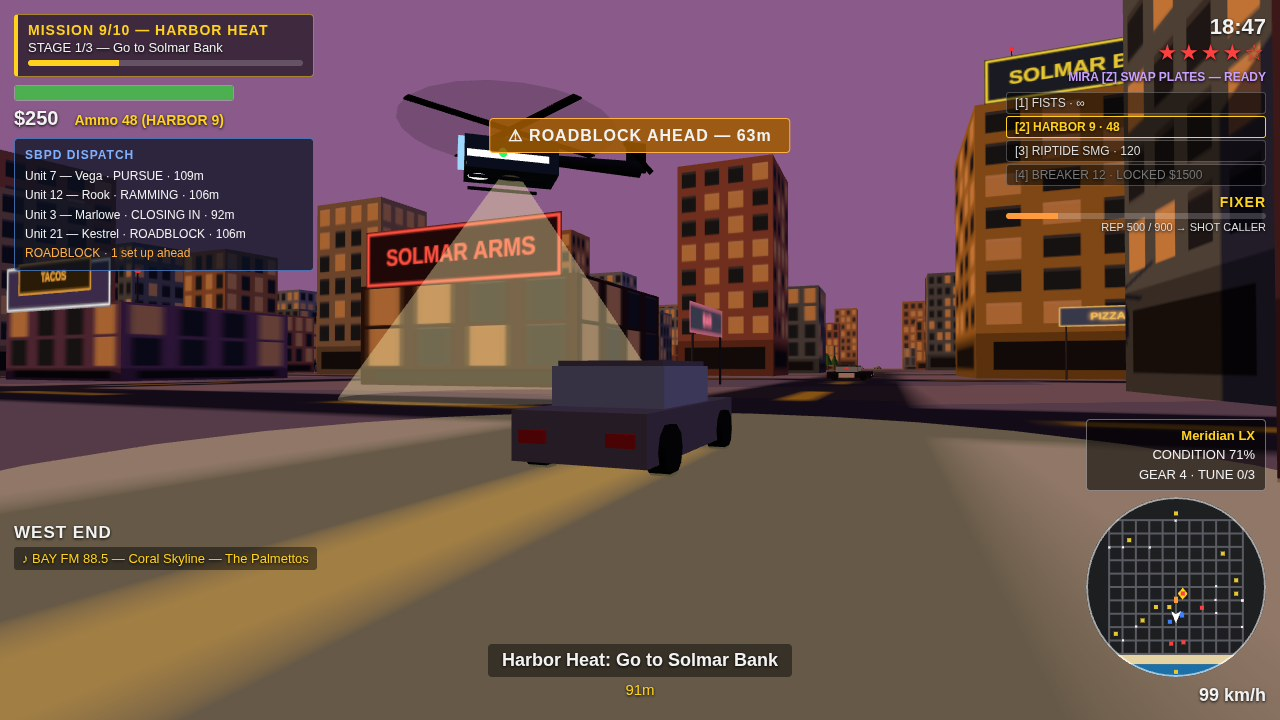
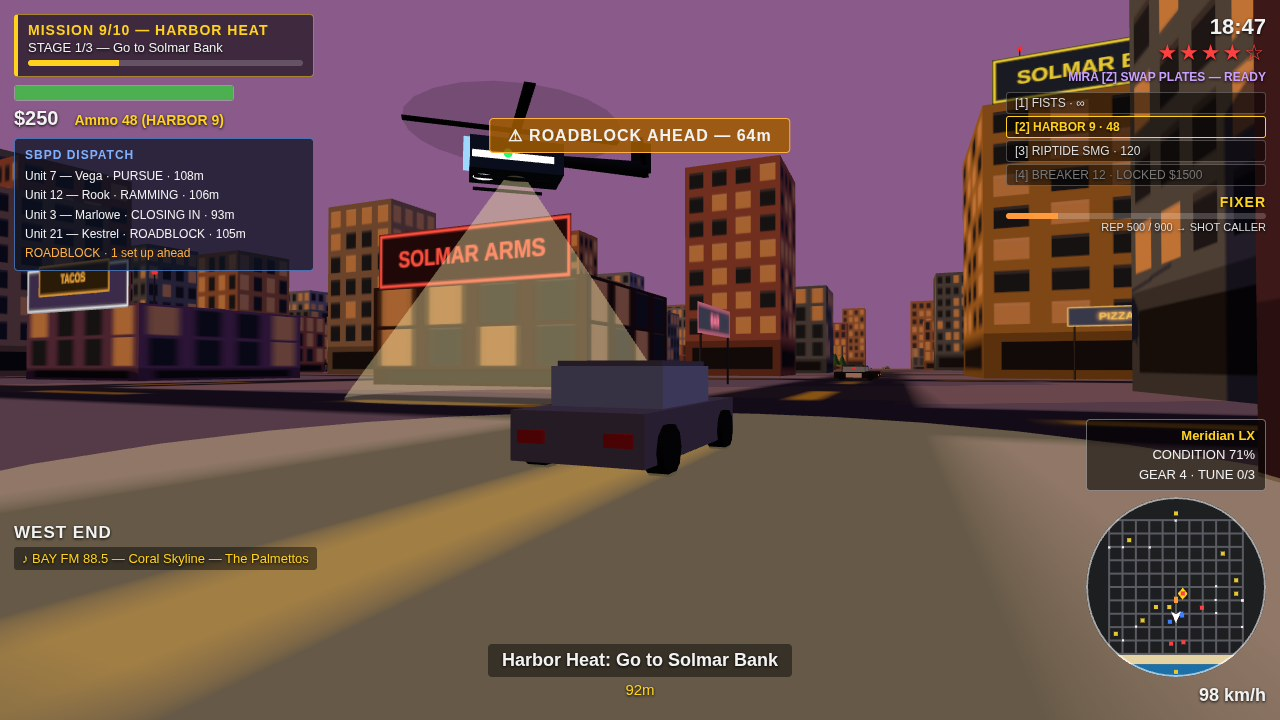
Solmar Bay v7 (sprint 9): 4 screenshots regenerated under recording v9 + screenshots README

Changed region(s): [[0.0, 0.0, 1.0, 0.5806], [0.9688, 0.55, 1.0, 0.6722], [0.4375, 0.2139, 0.4688, 0.2444]]

diff --git a/screenshots/README.md b/screenshots/README.md
@@ -1,0 +1,82 @@
+# Solmar Bay — Screenshots
+
+Four staged gameplay screenshots for the make.fun entry, 1280×720 JPEG
+(quality 88). Captured headless via the CDP driver
+(`/tmp/cdp-shot.mjs`, Chrome remote debugging on 127.0.0.1:9333) from
+`game/index.html?shot=N&seed=1`. Staging lives in
+`game/src/autopilot.js` (`stageShot()`) and `game/src/staging-fx.js`;
+the seed is fixed, so re-running the driver reproduces the same staging.
+
+Regenerate one shot:
+
+```
+node /tmp/cdp-shot.mjs shot <N> screenshots/<file>.jpg 800
+```
+
+Last regenerated: 22 Nov 2026 (sprint 9, recording v9). All four staged
+cleanly with zero page errors (`window.__errors` empty in the CDP diag).
+
+## 1-chase.jpg — heli chase + roadblock
+
+- Mission 9/10 **"Harbor Heat"**, stage 1/3 — "Go to Solmar Bank".
+- Staging: player in car at (0, 120), heading π, speed 24; heat 185
+  (5 wanted stars); SMG owned, 120 ammo; rep 500. Roadblock
+  pre-spawned ahead of the car. Camera: `camYaw 0.55, camDist 10,
+  camPitch 0.15`; heli held at `holdAngle = camYaw + π + 0.15`,
+  height 12.
+- What is visible: police helicopter overhead with a searchlight cone
+  shining down on the player's grey car; amber banner
+  "⚠ ROADBLOCK AHEAD — 64m"; SBPD DISPATCH panel listing four units
+  (Vega PURSUE, Rook RAMMING, Marlowe CLOSING IN, Kestrel ROADBLOCK)
+  plus "ROADBLOCK · 1 set up ahead"; red "SOLMAR ARMS" neon sign;
+  downtown buildings; minimap with the roadblock marker; speedometer
+  98 km/h; radio "BAY FM 88.5 — Coral Skyline — The Palmettos".
+
+## 2-driving.jpg — beach-road driving, ferris wheel + pier
+
+- Mission 6/10 **"Neon Street Race"**, stage 1/3 — "Checkpoint 1/3:
+  the pier".
+- Staging: player in car at (-130, 300), heading π/2, speed 10; rep
+  180. Eight pedestrians placed along the sidewalk and six traffic
+  cars placed ahead on the beach road. Camera: `camYaw -π/2,
+  camDist 8`.
+- What is visible: large ferris wheel with colourful cabins dominating
+  the centre-left skyline; the pier boardwalk and ocean on the right;
+  a tall pale tower on the horizon; pedestrians on the sidewalk;
+  traffic cars ahead in both lanes; the player's blue "Dune Runner"
+  at 48 km/h; "BOARDWALK BEACH" district label; mission timer
+  "90s LEFT".
+
+## 3-onfoot.jpg — on-foot shootout, orange tracer beam
+
+- Mission 8/10 **"Vulture War"**, stage 1/4 — "Go to Solmar Mall".
+- Staging: player on foot at (0, -20), facing π; heat 55 (1 wanted
+  star); RIPTIDE SMG selected, 120 ammo; rep 420. Four enemies
+  spawned near the player at (-6,-5), (6,-6), (-5,-9), (5,-10).
+  Camera: `camYaw 0.15, camDist 5.5`. Orange tracer beams staged by
+  `stageShotFx()` from the nearest enemy's muzzle to the player's
+  chest.
+- What is visible: the player (blue shirt) from behind in the centre
+  of the frame; a bright orange tracer beam crossing the street from
+  an enemy muzzle toward the player; four red enemies with red health
+  bars (two close on the left, two further right); red banner
+  "★ WANTED — SBPD IN PURSUIT"; Mira's dialogue box bottom-left
+  ("I will watch the exits. Do not let them circle you, Dana.");
+  "DOWNTOWN SOLMAR" district label; downtown buildings; minimap.
+
+## 4-shootout.jpg — roadblock shootout, orange cones
+
+- Mission 10/10 **"The Big Score"**, stage 4/4 — "Escape to the pier".
+- Staging: player in car at (0, -240), heading 0, speed 26; heat 220
+  (5 wanted stars); shotgun owned, 24 ammo; rep 950. Roadblock moved
+  closer to z=-216 with two police cars at (-5,-215) and (5,-217).
+  Six orange traffic cones placed across the road at x = -7.5, -4.5,
+  -1.5, 1.5, 4.5, 7.5, z=-232. Camera: `camYaw π, camDist 11,
+  camPitch 0.15`; heli held at `holdAngle = camYaw + π + 0.55`,
+  height 17, radius 28.
+- What is visible: six orange cones in a row across the road directly
+  ahead of the player's green "Bayliner 4"; two roadblock police cars
+  with blue lights behind the cones; police helicopter with
+  searchlight top-left; amber banner "⚠ ROADBLOCK AHEAD — 16m"; SBPD
+  DISPATCH panel (four units + "ROADBLOCK · 1 set up ahead");
+  "NORTH HEIGHTS" district label; speedometer 107 km/h.
